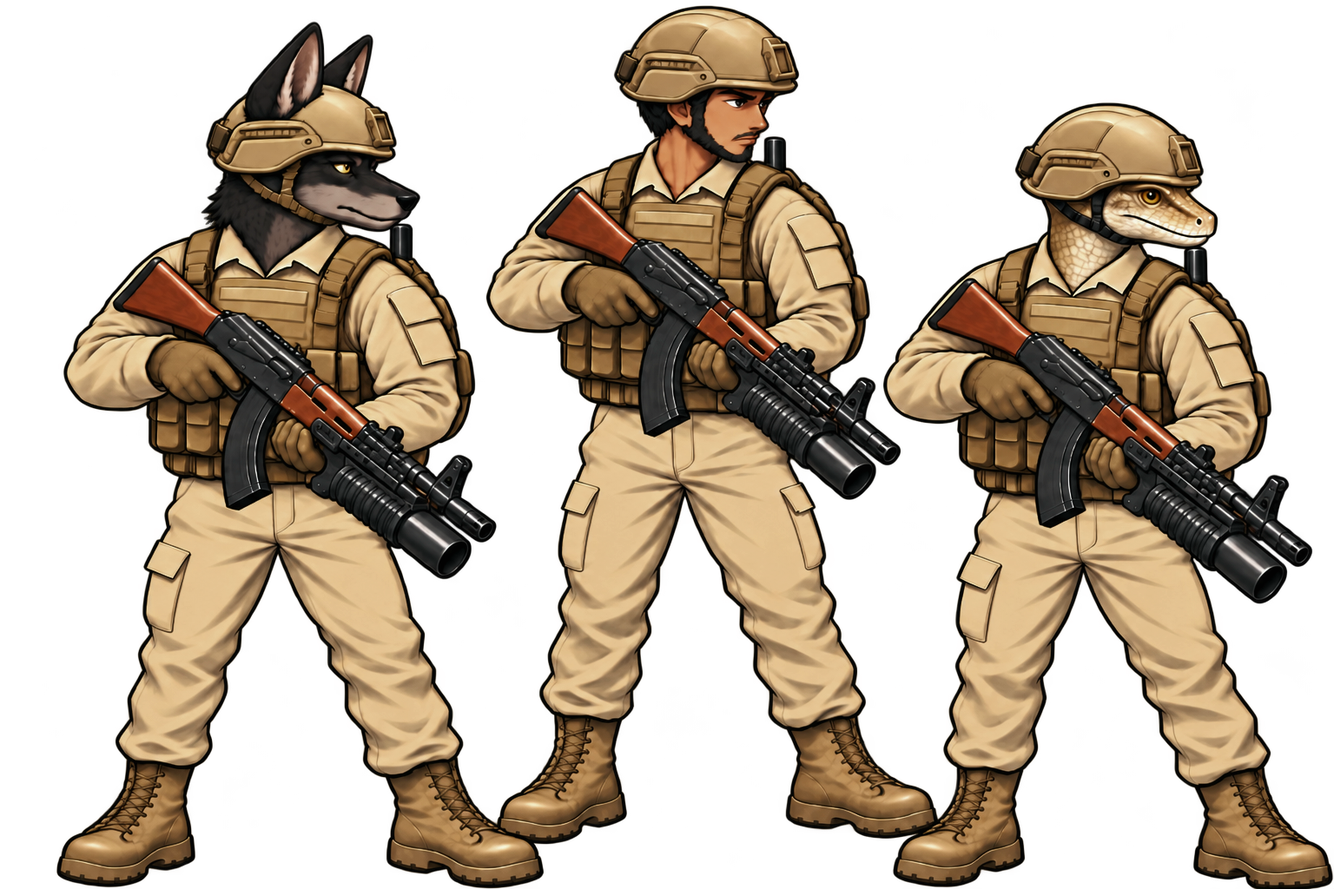
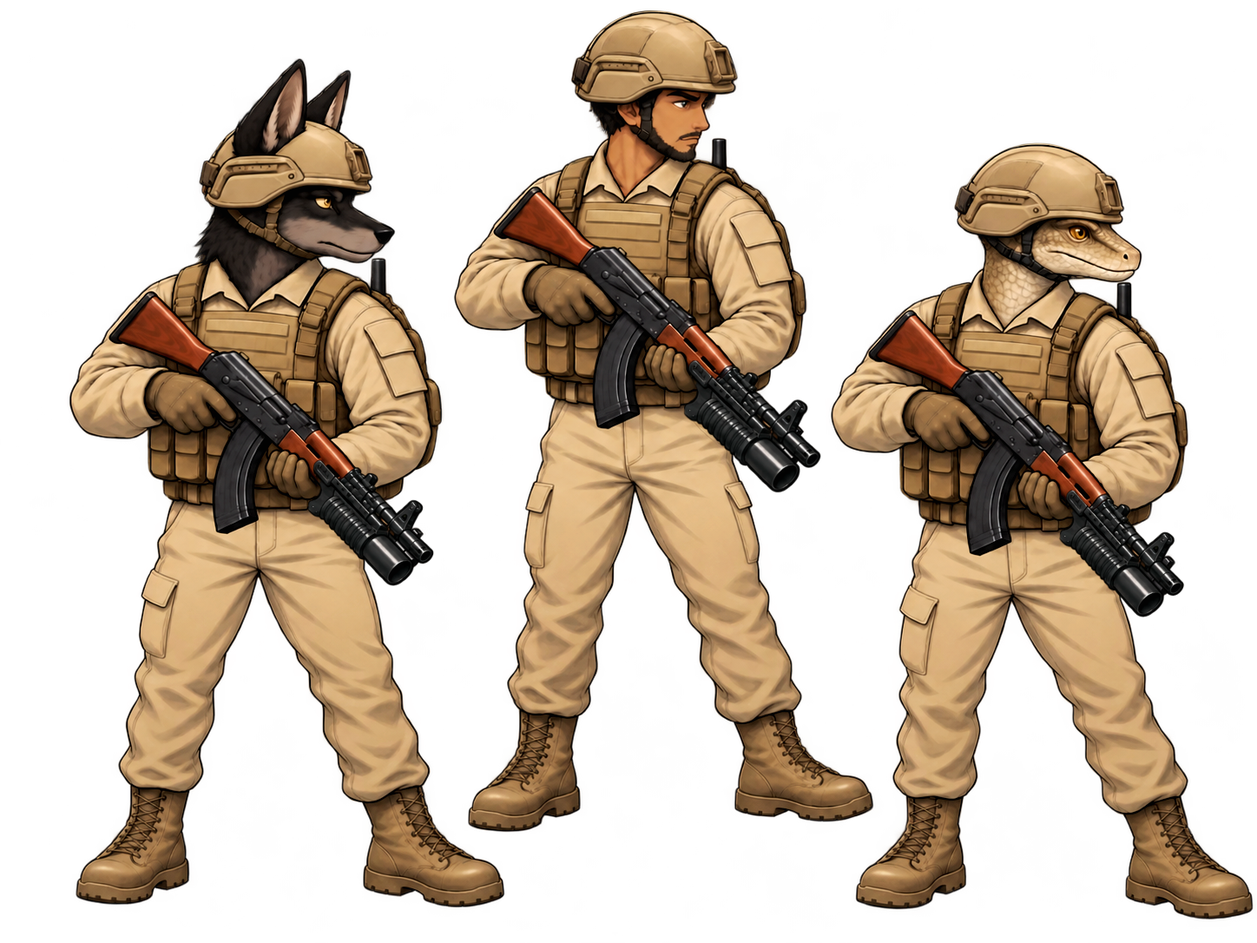
Replace Ayria idle infantry art and use Dante desert armor/artillery (v1.11.31)
Use the two supplied full-resolution idle illustrations, retaining the current visible soldier scale and ground anchor with unchanged firing art. Reuse Dante light/standard/elite tank and SP/rocket/towed/mortar geometry, including firing and travel frames, for Ayria only.

Cache ochre desert paint from the original source frames with Canvas color filters; retain exact transparency, crop geometry, facing and muzzle positions without runtime pixel reads. Add real Canvas regression coverage for all 11 cached frames, 7 unit types and their poses/facings. Keep save IDs and Android signing identity; versionCode 176.

diff --git a/game/assets/index.html b/game/assets/index.html
@@ -17,7 +17,8 @@ body[data-front="true"] :is(#c,#hud,#controls,#turnControls,#selectionActions,#p
 \n.cityCommandHeading{display:flex;align-items:center;justify-content:space-between;gap:10px;margin:3px 0 8px}.cityCommandHeading button.gold{background:#d9ab36;color:#21210e;border:1px solid #f3cf64;min-height:34px;padding:6px 10px;font-weight:bold;border-radius:5px}.cityActionRow{display:flex;align-items:stretch;gap:6px;margin:6px 0}.cityActionRow .produceButton{flex:1;text-align:left}.cityActionRow .unitInfoButton{min-width:35px}.cityActionRow .productionRow{flex:1;min-width:0}#selectionActions button[id^="city"]{font-size:21px;min-width:38px;width:38px;padding:4px}#panel .cityCommandHeading .eyebrow{font-size:12px}\n\n/* Compact city sub-pages and true centered vector footer icons. */\n#selectionActions button.cityQuickAction{display:inline-flex;align-items:center;justify-content:center;box-sizing:border-box;vertical-align:middle;flex:none;width:38px;min-width:38px;height:38px;min-height:38px;padding:5px;margin:0;line-height:1}\n#selectionActions button.cityQuickAction svg{display:block;flex:none;width:23px;height:23px;vertical-align:middle}\n#panel .cityCommandHeading .eyebrow{letter-spacing:1px;font-size:13px;font-weight:700}\n#panel .cityCommandCompact{border-top:0;padding:2px 0 6px}\n#panel .cityCommandCompact h3{font-size:15px;margin:2px 38px 10px 0;letter-spacing:0}\n#panel .cityActionRow .produceButton{min-height:46px;line-height:1.35;text-align:left;padding:7px 10px;white-space:normal}\n#panel .cityActionRow .produceButton small{display:block;margin-top:3px;color:#aec4bd;font-size:10px;font-weight:400;letter-spacing:0;line-height:1.35}\n#panel .cityActionRow .unitInfoButton{display:flex;align-items:center;justify-content:center;min-width:34px;width:34px;flex:none;margin:0;padding:0}\n#panel .cityActionRow .unitInfoButton svg{display:block}\n#panel .cityStock{margin:8px 0 10px;color:#c9d7ce}\n#modal .cityTechInfo{width:min(500px,90vw)}\n\n/* v1.10.88: one unobstructed city name header on every command page. */\n#panel .cityNameHeader{display:flex;align-items:baseline;flex-wrap:wrap;gap:3px 10px;margin:8px 44px 13px 0;min-width:0}\n#panel .cityNameHeader .cityName{font-size:19px;font-weight:800;letter-spacing:0;margin:0;line-height:1.3;min-width:0}\n#panel .cityHeadMeta{display:inline-flex;align-items:baseline;gap:7px;flex-wrap:nowrap;white-space:nowrap;line-height:1.3}\n#panel .cityCountryName{font-size:11px;font-weight:700;letter-spacing:0}\n#panel .cityHeadLevel{font-size:11px;font-weight:700;color:#b4b99a}\n#panel .cityUpgradeLine{display:flex;justify-content:flex-start;margin:0 0 10px}\n#panel .cityUpgradeLine #cityExpandGold{background:#d9ab36;color:#20210d;border:1px solid #f1cb64;font-size:13px;font-weight:700;min-height:36px;margin:0;padding:7px 14px;border-radius:6px}\n#panel .cityCommandCompact{padding-top:8px}\n#selectionActions button.cityQuickAction{display:inline-flex;align-items:center!important;justify-content:center!important;vertical-align:middle;box-sizing:border-box;width:38px;min-width:38px;height:38px;min-height:38px;padding:0!important;margin:0;line-height:0!important}\n#selectionActions button.cityQuickAction svg{display:block;width:24px;height:24px;min-width:24px;min-height:24px;flex:none;margin:0!important;padding:0!important;transform:none;position:static}\n#panel .cityMountWarhead{display:inline-flex;align-items:center;justify-content:center;padding:0!important;line-height:0!important}\n#panel .cityMountWarhead svg{width:20px;height:20px;display:block;margin:auto;flex:none}\n</style><link rel="stylesheet" href="app-shell.css"></head><body data-front="true" data-screen="title"><div id="frontBackground" aria-hidden="true"></div><canvas id="c"></canvas><div id="hud"><div id="resources" class="glass"></div><div id="spacer"></div><button id="next">다음 부대</button><button id="diplomacy">외교</button><button id="menu">☰</button></div><div id="log"></div><div id="controls"><button id="minus">−</button><button id="plus">＋</button><button id="home">수도</button><button id="mapbtn">세계지도</button><button id="coastBuild">방어시설</button></div><canvas id="mini"></canvas><div id="turnControls"><button id="turn" class="gold">턴 종료 ▶</button><button id="aiFastForward" title="AI 턴 애니메이션 생략" aria-label="AI 턴 빨리감기" aria-pressed="false" style="display:none">⏩</button></div><div id="selectionActions" class="glass"><button id="selectionBoard" title="승선" style="display:none"><svg width="23" height="23" viewBox="0 0 24 24"><path d="M2 13l4 8h12l4-8-10-4z" fill="#b9d9db"/><path d="M7 11V4h10v7M10 4V1h4v3" fill="none" stroke="#e7d7a9" stroke-width="2"/></svg></button><button id="selectionLand" title="상륙" style="display:none"><svg width="23" height="23" viewBox="0 0 24 24"><path d="M12 3v17M5 9h14M3 14c0 9 18 9 18 0M3 14l4 2M21 14l-4 2" fill="none" stroke="#c4ded7" stroke-width="2"/><circle cx="12" cy="3" r="2" fill="#e7d7a9"/></svg></button><button id="selectionManage" title="도시 관리" aria-label="도시 관리" style="display:none"><svg width="23" height="23" viewBox="0 0 24 24" aria-hidden="true"><path d="M4 3l4 1 1 4 12 12-3 3L6 11 2 10z" fill="#e7d7a9"/><path d="M20 2l-4 1-2 4 2 2-13 11 2 2L18 10l4-2V3l-3 3-2-2z" fill="#bdd1ca" stroke="#152b30" stroke-width="1"/></svg></button><button id="selectionAirCancel" title="항공 작전 종료" style="display:none">×</button><button id="selectionInfo" title="선택 대상 정보" aria-label="선택 대상 정보">i</button><button id="selectionUpgrade" title="강화 및 관리" aria-label="강화 및 관리">↑</button><button id="selectionCity" title="주둔 도시 관리">도시</button></div><div id="panel" class="glass"></div><div id="toast"></div><div id="worldNotice" role="status" style="display:none"></div><div id="modal"><div class="box landing"><h1>테르하 : 전장의 국권</h1><p class="subtitle">TERHA CONQUEST</p><button id="appStart" class="startPulse" disabled>START</button></div></div><div id="campaignLoading" role="status" aria-label="작전 불러오는 중" aria-hidden="true"><img id="campaignLoadingImage" src="campaign-loading.png" alt=""><div id="campaignProgress"><span id="campaignProgressText">작전 준비 중</span><div class="track" role="progressbar" aria-valuemin="0" aria-valuemax="100" aria-valuenow="0"><i id="campaignProgressFill"></i></div></div></div><script src="campaign-loading.js"></script><script src="mapdata.js"></script><script src="saves.js"></script><script src="aviation.js"></script><script src="game.js"></script><script src="warfare.js"></script><script src="orders.js"></script><script src="industry.js"></script><script src="interface.js"></script><script src="economy.js"></script><script src="regiments.js"></script><script src="navy.js"></script><script src="transport.js"></script><script src="coast.js"></script><script src="rifle-art.js"></script><script src="tank-art.js"></script><script src="artillery-art.js"></script><script src="city-art.js"></script><script src="nakwol-city-art.js"></script><script src="city-roster.js"></script><script src="dante-tank-art.js"></script><script src="infantry-fire.js"></script><script src="devil-rider-art.js"></script><script src="aftermath-carrier.js"></script><script src="destroyer-art.js"></script><script src="stetopia-tank-art.js"></script><script src="unit-visual-scale.js"></script><script src="towed-art.js"></script><script src="ai-fast-forward.js"></script><script src="city-ground.js"></script><script src="initial-layout.js"></script><script src="terrain-alignment.js"></script><script src="coast-art-data.js"></script><script src="coast-art.js"></script><script src="dante-fronts.js"></script>
 <script src="fighter-art.js"></script>
 <script src="campaign-balance.js"></script><script src="defense-research.js"></script><script src="carrier-art.js"></script><script src="ambience.js"></script><script src="performance.js"></script><script src="unit-balance.js"></script><script src="artillery-balance.js"></script><script src="dante-expansion.js"></script><script src="nakwol-heavy-art.js"></script><script src="nationality-flags.js"></script><script src="ranna-tank-art.js"></script><script src="ranna-artillery-art.js"></script><script src="artillery-alignment.js"></script><script src="ground-data.js"></script>
-<script src="ground-colors.js"></script><script src="natural-detail-data.js"></script><script src="natural-detail.js"></script><script src="natural-ownership-data.js"></script><script src="natural-ownership.js"></script><script src="static-ground.js"></script><script src="action-visuals.js"></script><script src="baek-city-names.js"></script><script src="maria-sea.js"></script><script src="combat-sound-bank.js"></script><script src="combat-audio.js"></script><script src="interaction-sound-bank.js"></script><script src="unit-interaction.js"></script><script src="hansa-island.js"></script><script src="river-data.js"></script><script src="ranna-special.js"></script><script src="air-city-balance.js"></script><script src="nakwol-infantry-scale.js"></script><script src="nakwol-infantry-art.js"></script><script src="app-shell.js"></script><script src="localization.js"></script><script src="window-chrome.js"></script><script src="app-lifecycle.js"></script><script src="operation-music-data.js"></script><script src="operation-music.js"></script><script src="operation-buffer-music.js"></script><script src="airborne-transport.js"></script><script src="v11078-systems.js"></script><script src="v11079-systems.js"></script><script src="v11082-special-fuel.js"></script><script src="v11083-unit-nameplates.js"></script><script src="v11085-strategic.js"></script><script src="v11085-command-ui.js"></script><script src="v11086-ui-polish.js"></script><script src="v11088-city-ui.js"></script><script src="v11091-gameplay-fixes.js"></script><script src="dante-fleet-art.js"></script><script src="frontline-reinforcements.js"></script><script src="ocean-world.js"></script><script src="special-operations.js"></script><script src="mortar-art.js"></script><script src="special-auras.js"></script><script src="bootstrap.js"></script></body></html>
+<script src="ground-colors.js"></script><script src="natural-detail-data.js"></script><script src="natural-detail.js"></script><script src="natural-ownership-data.js"></script><script src="natural-ownership.js"></script><script src="static-ground.js"></script><script src="action-visuals.js"></script><script src="baek-city-names.js"></script><script src="maria-sea.js"></script><script src="combat-sound-bank.js"></script><script src="combat-audio.js"></script><script src="interaction-sound-bank.js"></script><script src="unit-interaction.js"></script><script src="hansa-island.js"></script><script src="river-data.js"></script><script src="ranna-special.js"></script><script src="air-city-balance.js"></script><script src="nakwol-infantry-scale.js"></script><script src="nakwol-infantry-art.js"></script><script src="app-shell.js"></script><script src="localization.js"></script><script src="window-chrome.js"></script><script src="app-lifecycle.js"></script><script src="operation-music-data.js"></script><script src="operation-music.js"></script><script src="operation-buffer-music.js"></script><script src="airborne-transport.js"></script><script src="v11078-systems.js"></script><script src="v11079-systems.js"></script><script src="v11082-special-fuel.js"></script><script src="v11083-unit-nameplates.js"></script><script src="v11085-strategic.js"></script><script src="v11085-command-ui.js"></script><script src="v11086-ui-polish.js"></script><script src="v11088-city-ui.js"></script><script src="v11091-gameplay-fixes.js"></script><script src="dante-fleet-art.js"></script><script src="frontline-reinforcements.js"></script><script src="ocean-world.js"></script><script src="special-operations.js"></script><script src="mortar-art.js"></script><script src="ayria-desert-art.js"></script><script src="special-auras.js"></script><script src="bootstrap.js"></script></body></html>
+
 
 
 

diff --git a/game/assets/dante-tank-art.js b/game/assets/dante-tank-art.js
@@ -1,12 +1,14 @@
 'use strict';
 const danteTankArt={14:loadBaekArt('dante-tank-elite.png'),1:loadBaekArt('dante-tank.png'),13:loadBaekArt('dante-tank-light.png')};
 const DANTE_TANK_PROFILES={14:{crop:[0,0,1536,690],muzzles:[[25,165],[25,223]]},1:{crop:[0,0,1526,656],muzzles:[[28,170]]},13:{crop:[20,210,1500,665],muzzles:[[35,361]]}};
-function isDanteTank(u){return u.f===1&&!!DANTE_TANK_PROFILES[u.type]}
+function danteTankArtFor(u){return u.f===3?ayriaTankArt[u.type]:danteTankArt[u.type]}
+function isDanteTank(u){return [1,3].includes(u.f)&&!!DANTE_TANK_PROFILES[u.type]}
 function faceDanteTank(u,from,to){if(isDanteTank(u)&&Math.abs(to.x-from.x)>.001)u.tankFacing=to.x>from.x?1:-1}
 function danteTankBox(u){const a=DANTE_TANK_PROFILES[u.type],h=64*a.crop[3]/a.crop[2];return{x:-32,y:14-h,w:64,h}}
 function danteTankMuzzle(u,p){const a=DANTE_TANK_PROFILES[u.type],b=danteTankBox(u),m=a.muzzles[0];return{x:p.x-baekTankFacing(u)*((m[0]-a.crop[0])/a.crop[2]-.5)*64,y:p.y-3+b.y+(m[1]-a.crop[1])/a.crop[3]*b.h}}
 const danteTankBeginAim=beginAim;beginAim=function(u,target,duration){faceDanteTank(u,pxy(u.tile),target);return danteTankBeginAim(u,target,duration)};
 const danteTankMoveUnit=moveUnit;moveUnit=function(u,i,ai=false){const from=pxy(u.tile),ok=danteTankMoveUnit(u,i,ai);if(ok&&isDanteTank(u)){faceDanteTank(u,from,pxy(i));if(!ai)save()}return ok};
 const danteTankLaunchShot=launchShot;launchShot=function(u,target,start=performance.now(),duration=520){if(isDanteTank(u))faceDanteTank(u,pxy(u.tile),target);const m=danteTankLaunchShot(u,target,start,duration);return isDanteTank(u)?danteTankMuzzle(u,pxy(u.tile)):m};
-const danteTankSprite=sprite;sprite=function(u,p,now){if(!isDanteTank(u)||!danteTankArt[u.type].idleReady)return danteTankSprite(u,p,now);const a=DANTE_TANK_PROFILES[u.type],b=danteTankBox(u),move=movingAnimation(u.id);if(move){const t=Math.max(0,Math.min(1,(now-move.start)/move.duration));p={x:move.from.x+(move.to.x-move.from.x)*t,y:move.from.y+(move.to.y-move.from.y)*t}}const fire=fireMotions.get(u.id),elapsed=fire?now-fire.start:-1;ctx.save();ctx.translate(p.x,p.y-3);ctx.globalAlpha=1;ctx.fillStyle='#0005';ctx.beginPath();ctx.ellipse(0,12,27,9,0,0,Math.PI*2);ctx.fill();beginLargeUnitBody(u,14);ctx.save();ctx.translate(baekTankRecoil(u,now),0);ctx.scale(-baekTankFacing(u),1);ctx.drawImage(danteTankArt[u.type].idle,...a.crop,b.x,b.y,b.w,b.h);if(elapsed>=0&&elapsed<120){const r=8*(1-elapsed/160);for(const m of a.muzzles){const x=(m[0]-a.crop[0])/a.crop[2]*64-32,y=b.y+(m[1]-a.crop[1])/a.crop[3]*b.h;ctx.save();ctx.translate(x,y);poly([[1,-1],[-r,-r*.6],[-r*.8,-1],[-r*2.2,0],[-r*.8,1],[-r,r*.6],[1,1]],'#ffce67');circle(-1,0,2,'#fff6d5');ctx.restore()}}ctx.restore();endLargeUnitBody();if(fire&&elapsed>=fire.duration)fireMotions.delete(u.id);if(cam.z>.55){ctx.font='bold 9px Terha,sans-serif';ctx.textAlign='center';ctx.lineWidth=2.5;ctx.strokeStyle='#10222b';ctx.strokeText(TYPES[u.type].name+' '+u.level,0,38);ctx.fillStyle='#eee7d2';ctx.fillText(TYPES[u.type].name+' '+u.level,0,38);rect(-25,21,50,5,'#12211c');rect(-24,22,48*Math.max(0,u.hp/unitMaxHp(u)),3,factions[u.f].color)}ctx.restore()};
+const danteTankSprite=sprite;sprite=function(u,p,now){if(!isDanteTank(u)||!danteTankArtFor(u).idleReady)return danteTankSprite(u,p,now);const a=DANTE_TANK_PROFILES[u.type],b=danteTankBox(u),move=movingAnimation(u.id);if(move){const t=Math.max(0,Math.min(1,(now-move.start)/move.duration));p={x:move.from.x+(move.to.x-move.from.x)*t,y:move.from.y+(move.to.y-move.from.y)*t}}const fire=fireMotions.get(u.id),elapsed=fire?now-fire.start:-1;ctx.save();ctx.translate(p.x,p.y-3);ctx.globalAlpha=1;ctx.fillStyle='#0005';ctx.beginPath();ctx.ellipse(0,12,27,9,0,0,Math.PI*2);ctx.fill();beginLargeUnitBody(u,14);ctx.save();ctx.translate(baekTankRecoil(u,now),0);ctx.scale(-baekTankFacing(u),1);ctx.drawImage(danteTankArtFor(u).idle,...a.crop,b.x,b.y,b.w,b.h);if(elapsed>=0&&elapsed<120){const r=8*(1-elapsed/160);for(const m of a.muzzles){const x=(m[0]-a.crop[0])/a.crop[2]*64-32,y=b.y+(m[1]-a.crop[1])/a.crop[3]*b.h;ctx.save();ctx.translate(x,y);poly([[1,-1],[-r,-r*.6],[-r*.8,-1],[-r*2.2,0],[-r*.8,1],[-r,r*.6],[1,1]],'#ffce67');circle(-1,0,2,'#fff6d5');ctx.restore()}}ctx.restore();endLargeUnitBody();if(fire&&elapsed>=fire.duration)fireMotions.delete(u.id);if(cam.z>.55){ctx.font='bold 9px Terha,sans-serif';ctx.textAlign='center';ctx.lineWidth=2.5;ctx.strokeStyle='#10222b';ctx.strokeText(TYPES[u.type].name+' '+u.level,0,38);ctx.fillStyle='#eee7d2';ctx.fillText(TYPES[u.type].name+' '+u.level,0,38);rect(-25,21,50,5,'#12211c');rect(-24,22,48*Math.max(0,u.hp/unitMaxHp(u)),3,factions[u.f].color)}ctx.restore()};
 Object.assign(window.Terha,{moveUnit,faceDanteTank,danteTankBox,danteTankMuzzle});
+

diff --git a/game/assets/saves.js b/game/assets/saves.js
@@ -2,7 +2,7 @@
 const SAVE_SLOTS=5;
 function saveKey(slot=0){return slot===0?'terha-v1':'terha-slot-'+slot}
 function readSave(slot=0){try{const s=JSON.parse(localStorage.getItem(saveKey(slot)));return s&&Array.isArray(s.units)&&Array.isArray(s.cities)&&[168,181].includes(s.cities.length)?s:null}catch(e){return null}}
-function snapshot(){return{appVersion:'1.11.30',danteExpansionSeeded,unitBalance42Schema:UNIT_BALANCE_42_SCHEMA,defenseSchema:2,campaignPatchSchema:1,aiTransportGrantTurn,shorelineSchema:SHORELINE_SCHEMA,cityPlacementSchema:CITY_PLACEMENT_SCHEMA,cityRosterSchema:CITY_ROSTER_SCHEMA,tierBalanceSchema:TIER_BALANCE_SCHEMA,navalSchema:1,missileBases,navalUid,food,foodTurn,industrySchema:INDUSTRY_SCHEMA,oil,strategicResearch,defeatedNotices:[...defeatedNotices],balanceSchema:BALANCE_SCHEMA,ruleSchema:RULE_SCHEMA,diplomacy,unitSchema:UNIT_SCHEMA,savedAt:Date.now(),units,cities,money,tech,turn,player,difficulty,uid,owners:tiles.map(t=>t.owner),cam,activeSlot}}
+function snapshot(){return{appVersion:'1.11.31',danteExpansionSeeded,unitBalance42Schema:UNIT_BALANCE_42_SCHEMA,defenseSchema:2,campaignPatchSchema:1,aiTransportGrantTurn,shorelineSchema:SHORELINE_SCHEMA,cityPlacementSchema:CITY_PLACEMENT_SCHEMA,cityRosterSchema:CITY_ROSTER_SCHEMA,tierBalanceSchema:TIER_BALANCE_SCHEMA,navalSchema:1,missileBases,navalUid,food,foodTurn,industrySchema:INDUSTRY_SCHEMA,oil,strategicResearch,defeatedNotices:[...defeatedNotices],balanceSchema:BALANCE_SCHEMA,ruleSchema:RULE_SCHEMA,diplomacy,unitSchema:UNIT_SCHEMA,savedAt:Date.now(),units,cities,money,tech,turn,player,difficulty,uid,owners:tiles.map(t=>t.owner),cam,activeSlot}}
 function save(slot=0){if(!Number.isInteger(slot)||slot<0||slot>SAVE_SLOTS)return false;try{if(slot>0)activeSlot=slot;localStorage.setItem(saveKey(slot),JSON.stringify(snapshot()));return true}catch(e){toast('저장 공간이 부족하거나 저장할 수 없습니다');return false}}
 function load(slot=0){const s=readSave(slot);if(!s||!Array.isArray(s.owners)||![W*H,tiles.length].includes(s.owners.length))return false;try{({units,cities,money,tech,turn,player,difficulty,uid,cam}=s);activeSlot=slot||s.activeSlot||0;tiles.forEach((t,i)=>{t.owner=s.owners[i]??-1;t.city=-1});cities.forEach(q=>tiles[q.tile].city=q.id);migrateArmy(s);selected=null;panelOpen=false;airTarget=null;aimMotions.clear();fireMotions.clear();fx=[];moving=[];reach.clear();started=true;busy=false;menuMode=false;refreshSelection();$('modal').style.display='none';updateHUD();if(slot>0)save();toast(slot>0?'슬롯 '+slot+' 작전을 불러왔습니다':'자동 저장된 작전을 불러왔습니다');return true}catch(e){return false}}
 function migrateLegacySaves(){try{if(localStorage.getItem('terha-slots-migrated'))return;const s=readSave();if(s&&!readSave(1)){s.savedAt=s.savedAt||Date.now();localStorage.setItem(saveKey(1),JSON.stringify(s))}localStorage.setItem('terha-slots-migrated','1')}catch(e){}}

diff --git a/game/assets/artillery-art.js b/game/assets/artillery-art.js
@@ -4,10 +4,10 @@ const danteSPArt=loadBaekArt('dante-sp-idle.png','dante-sp-fire.png'),danteMLArt
 const stetopiaSPArt=loadBaekArt('stetopia-sp-idle.png','stetopia-sp-fire.png'),stetopiaMLArt=loadBaekArt('stetopia-ml-idle.png','stetopia-ml-fire.png');
 const BAEK_ARTILLERY_WIDTH=64,BAEK_ARTILLERY_BOTTOM=14,BAEK_ARTILLERY_FLIGHT=1200;
 const baekArtilleryShots=new Map();
-function isBaekArtillery(u){return [0,1,2].includes(u.f)&&(u.type===2||u.type===3)}
+function isBaekArtillery(u){return [0,1,2,3].includes(u.f)&&(u.type===2||u.type===3)}
 function baekArtilleryFacing(u){return u.artilleryFacing===-1?-1:u.artilleryFacing===1?1:Number.isFinite(u.angle)?Math.cos(u.angle)<-.00001?-1:1:u.f===1?-1:1}
 function faceBaekArtillery(u,from,to){if(isBaekArtillery(u)&&Math.abs(to.x-from.x)>.001)u.artilleryFacing=to.x>from.x?1:-1}
-function baekArtilleryProfile(u,firing=false){const rocket=u.type===3;if(u.f===2)return{art:rocket?stetopiaMLArt:stetopiaSPArt,w:rocket?(firing?1597:1753):1672,h:rocket?(firing?940:885):941,mx:rocket?964:75,my:rocket?105:50,baseFacing:-1,flashAngle:rocket?.78:.4};if(u.f===1)return{art:rocket?danteMLArt:danteSPArt,w:rocket?firing?940:1657:firing?924:1751,h:rocket?firing?719:886:firing?693:856,mx:rocket?470:145,my:rocket?75:38,baseFacing:-1,flashAngle:rocket?.86:.76};return{art:rocket?baekMLArt:baekSPArt,w:firing?1448:rocket?1536:1516,h:firing?rocket?1086:1065:rocket?892:754,mx:rocket?738:1381,my:rocket?118:79,baseFacing:1}}
+function baekArtilleryProfile(u,firing=false){const rocket=u.type===3;if(u.f===2)return{art:rocket?stetopiaMLArt:stetopiaSPArt,w:rocket?(firing?1597:1753):1672,h:rocket?(firing?940:885):941,mx:rocket?964:75,my:rocket?105:50,baseFacing:-1,flashAngle:rocket?.78:.4};if(u.f===1||u.f===3)return{art:rocket?(u.f===3?ayriaMLArt:danteMLArt):(u.f===3?ayriaSPArt:danteSPArt),w:rocket?firing?940:1657:firing?924:1751,h:rocket?firing?719:886:firing?693:856,mx:rocket?470:145,my:rocket?75:38,baseFacing:-1,flashAngle:rocket?.86:.76};return{art:rocket?baekMLArt:baekSPArt,w:firing?1448:rocket?1536:1516,h:firing?rocket?1086:1065:rocket?892:754,mx:rocket?738:1381,my:rocket?118:79,baseFacing:1}}
 function baekArtilleryBox(u,firing){const a=baekArtilleryProfile(u,firing),h=BAEK_ARTILLERY_WIDTH*a.h/a.w;return{x:-32,y:BAEK_ARTILLERY_BOTTOM-h,w:64,h,bottom:BAEK_ARTILLERY_BOTTOM}}
 function baekArtilleryMuzzle(u,p){const a=baekArtilleryProfile(u,true),box=baekArtilleryBox(u,true);return{x:p.x+baekArtilleryFacing(u)*a.baseFacing*(box.x+(a.mx-box.crop[0])/box.crop[2]*box.w),y:p.y-3+box.y+(a.my-box.crop[1])/box.crop[3]*box.h}}
 const artilleryBeginAim=beginAim;beginAim=function(u,target,duration){if(isBaekArtillery(u))faceBaekArtillery(u,pxy(u.tile),target);return artilleryBeginAim(u,target,duration)};

diff --git a/game/assets/rifle-art.js b/game/assets/rifle-art.js
@@ -34,14 +34,13 @@ const ayriaRifleArt=loadBaekArt('ayria-rifle-idle.webp','ayria-rifle-fire.webp')
 // Baek/Dante infantry. Heavy weapons keep their existing y=20 ground.
 // Mean HELMET-to-BOOT spans for the wolf/human/reptile figures, excluding
 // transparent padding, ears above helmets and projecting weapons:
-// rifle idle [897,945,896]/1086; grenade idle [907,964,905]/1024;
+// rifle and new grenade idle [897,945,896]/1086;
 // rifle fire [854,907,869]/1024; grenade fire [855,874,857]/1024.
 // Match each pose separately: the grenade firing canvas includes raised guns.
-const AYRIA_GRENADE_IDLE_SCALE=(2738/1086)/(2776/1024),
-      AYRIA_GRENADE_FIRE_SCALE=2630/2586;
+const AYRIA_GRENADE_FIRE_SCALE=2630/2586;
 const AYRIA_INFANTRY_PROFILES={
   0:{art:ayriaRifleArt,baseFacing:1,width:72,height:48,idleWidth:64,footY:14,idleFoot:1058/1086,fireFoot:973/1024,muzzles:rightInfantryMuzzles([[607,250],[1086,234],[1529,264]],1536,1024,72,48),highResolution:true},
-  8:{art:ayriaGrenadierArt,baseFacing:1,width:72*AYRIA_GRENADE_FIRE_SCALE,height:48*AYRIA_GRENADE_FIRE_SCALE,idleWidth:72*AYRIA_GRENADE_IDLE_SCALE,idleHeight:48*AYRIA_GRENADE_IDLE_SCALE,footY:14,idleFoot:1023/1024,fireFoot:1005/1024,muzzles:rightInfantryMuzzles([[571,94],[1037,77],[1524,88]],1536,1024,72*AYRIA_GRENADE_FIRE_SCALE,48*AYRIA_GRENADE_FIRE_SCALE),projectile:'baekGrenade',flashAngle:.6,highResolution:true},
+  8:{art:ayriaGrenadierArt,baseFacing:1,width:72*AYRIA_GRENADE_FIRE_SCALE,height:48*AYRIA_GRENADE_FIRE_SCALE,idleWidth:64,idleHeight:48,footY:14,idleFoot:1058/1086,fireFoot:1005/1024,muzzles:rightInfantryMuzzles([[571,94],[1037,77],[1524,88]],1536,1024,72*AYRIA_GRENADE_FIRE_SCALE,48*AYRIA_GRENADE_FIRE_SCALE),projectile:'baekGrenade',flashAngle:.6,highResolution:true},
   9:{art:ayriaAntitankArt,baseFacing:1,width:72,height:48,idleFoot:1023/1024,fireFoot:1023/1024,muzzles:rightInfantryMuzzles([[951,149],[1294,433]],1536,1024,72,48),projectile:'baekRocket',highResolution:true},
  10:{art:ayriaMachinegunArt,baseFacing:1,width:72,height:48,idleFoot:1023/1024,fireFoot:1023/1024,muzzles:rightInfantryMuzzles([[1173,133],[1527,415]],1536,1024,72,48),burst:true,highResolution:true}
 };
@@ -65,4 +64,5 @@ const rifleSprite=sprite;sprite=function(u,p,now){const profile=isBaekInfantryAr
 const rifleArtSetup=setup;setup=function(){baekImpactTimes.clear();return rifleArtSetup()};
 const rifleArtMigration=migrateArmy;migrateArmy=function(s){baekImpactTimes.clear();return rifleArtMigration(s)};
 Object.assign(window.Terha,{setup,migrateArmy,moveUnit,baekRifleFacing,faceBaekRifle,baekProjectilePosition,drawBaekProjectile});
+
 

diff --git a/game/assets/ayria-desert-art.js b/game/assets/ayria-desert-art.js
@@ -1,0 +1,27 @@
+'use strict';
+// Reuse Dante's exact source geometry and alpha. Cache the sand paint once per
+// source frame; battle rendering performs no pixel reads or repeated filtering.
+const AYRIA_DESERT_FILTER='brightness(1.7) sepia(1) saturate(1.4)';
+const ayriaDesertFrames=new WeakMap();
+function ayriaDesertFrame(image){
+ if(ayriaDesertFrames.has(image))return ayriaDesertFrames.get(image);
+ const canvas=document.createElement('canvas');
+ canvas.width=image.naturalWidth;canvas.height=image.naturalHeight;
+ const paint=canvas.getContext('2d');paint.filter=AYRIA_DESERT_FILTER;
+ paint.drawImage(image,0,0);paint.filter='none';
+ // Artillery's transparency crop table is keyed by the original source name.
+ canvas.src=image.src;canvas.naturalWidth=canvas.width;canvas.naturalHeight=canvas.height;
+ ayriaDesertFrames.set(image,canvas);return canvas;
+}
+function ayriaDesertArt(source){
+ const result={idle:null,fire:null,idleReady:false,fireReady:false};
+ for(const pose of ['idle','fire']){
+  const image=source[pose],ready=()=>{result[pose]=ayriaDesertFrame(image);result[pose+'Ready']=true};
+  if(image.complete&&image.naturalWidth>0)ready();else image.addEventListener('load',ready,{once:true});
+ }
+ return result;
+}
+const ayriaTankArt=Object.fromEntries(Object.entries(danteTankArt).map(([type,art])=>[type,ayriaDesertArt(art)]));
+const ayriaSPArt=ayriaDesertArt(danteSPArt),ayriaMLArt=ayriaDesertArt(danteMLArt);
+TOWED_ART[3]={...TOWED_ART[1],idle:ayriaDesertArt(TOWED_ART[1].idle),move:ayriaDesertArt(TOWED_ART[1].move)};
+MORTAR_ART[3]={...MORTAR_ART[1],idle:ayriaDesertArt(MORTAR_ART[1].idle),move:ayriaDesertArt(MORTAR_ART[1].move)};

diff --git a/game/assets/app-shell.js b/game/assets/app-shell.js
@@ -1,5 +1,5 @@
 'use strict';
-const APP_VERSION='1.11.30',APP_SETTINGS_KEY='terha-settings',APP_RECORDS_KEY='terha-conquests';
+const APP_VERSION='1.11.31',APP_SETTINGS_KEY='terha-settings',APP_RECORDS_KEY='terha-conquests';
 function readAppJSON(key,fallback){try{return JSON.parse(localStorage.getItem(key))??fallback}catch{return fallback}}
 const savedAppSettings=readAppJSON(APP_SETTINGS_KEY,{});
 const appSettings={music:Number.isFinite(savedAppSettings.music)?Math.min(1,Math.max(0,savedAppSettings.music)):.65,effects:Number.isFinite(savedAppSettings.effects)?Math.min(1,Math.max(0,savedAppSettings.effects)):1,language:savedAppSettings.language==='en'?'en':'ko'};

diff --git a/build.py b/build.py
@@ -2,7 +2,7 @@
 """Repackage the retained Android shell with current game assets and original signing key."""
 import pathlib,zipfile,struct,subprocess,os,urllib.request
 ROOT=pathlib.Path(__file__).resolve().parent;os.chdir(ROOT)
-VERSION='1.11.30';CODE=175
+VERSION='1.11.31';CODE=176
 subprocess.run(['python3','tools/prepare_operation_music.py'],check=True)
 T=ROOT/'tools';T.mkdir(exist_ok=True)
 for name,url in [('ecj.jar','https://repo.maven.apache.org/maven2/org/eclipse/jdt/ecj/3.33.0/ecj-3.33.0.jar'),('apksig.jar','https://repo.maven.apache.org/maven2/com/android/tools/build/apksig/2.3.0/apksig-2.3.0.jar')]:
